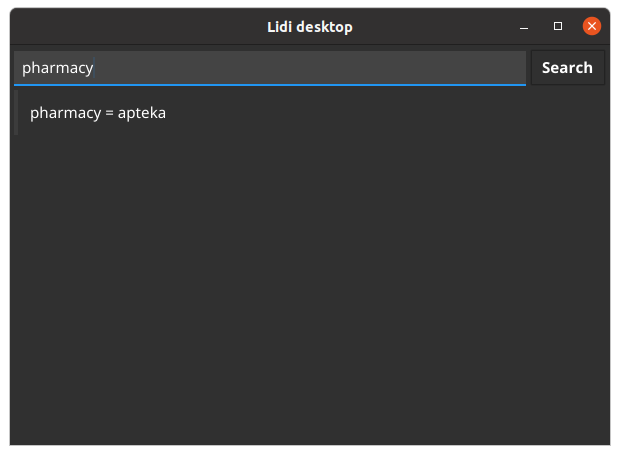
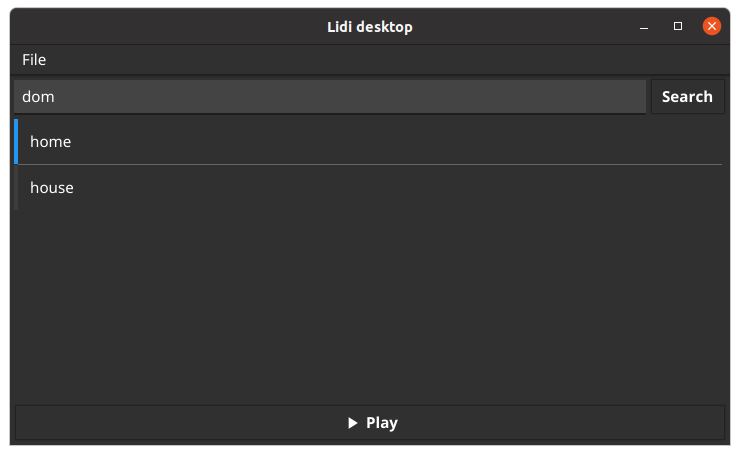
new: play current translation

diff --git a/README.md b/README.md
@@ -70,8 +70,6 @@ Desktop:
 
 ![Screen](/lidi-desktop.png)
 
-![Screen](/lidi-desktop-pl.png)
-
 Note: server, client and desktop tested on Linux only.
 
 English word list: [The BNC/COCA headword lists](https://www.wgtn.ac.nz/lals/resources/paul-nations-resources/vocabulary-lists).
